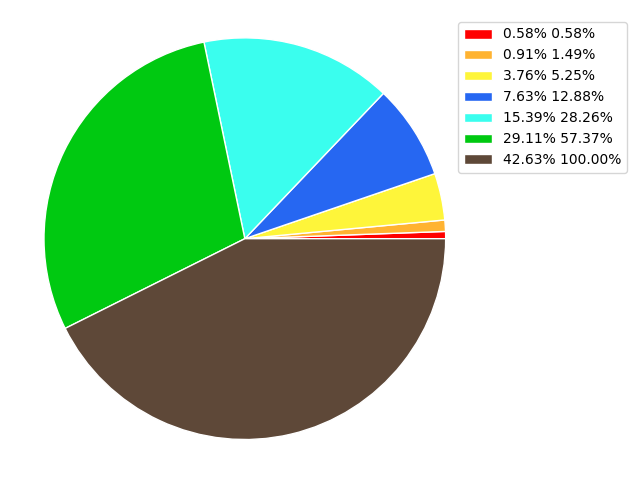
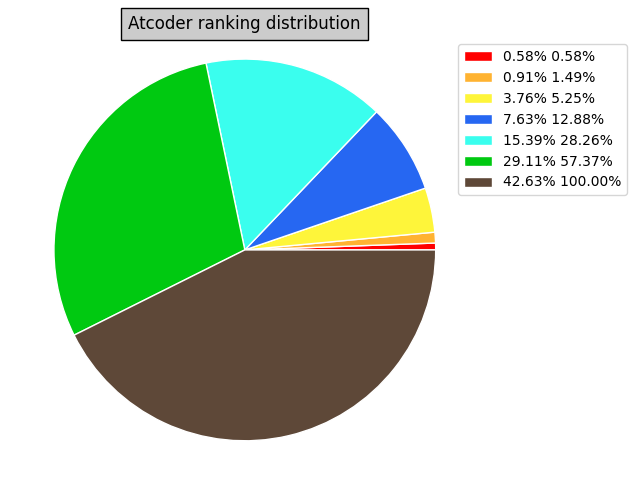
add titles

diff --git a/atcoderpiechart.py b/atcoderpiechart.py
@@ -22,6 +22,7 @@ for i in range(1,len(sizes)):
 labels = [f'{l}, {s/total*100:0.2f}%' for l, s in zip(labels, sizes)]
 labels = [f'{s/total*100:0.2f}% {c/total*100:0.2f}%' for s, c in zip(sizes, cumulative)]
 plt.legend(bbox_to_anchor=(0.95, 1), loc='upper left', labels=labels)
+plt.title('Atcoder ranking distribution', bbox={'facecolor':'0.8', 'pad':5})
 plt.axis('equal')
 plt.tight_layout()
 

diff --git a/codeforcespiechart.py b/codeforcespiechart.py
@@ -16,6 +16,7 @@ for i in range(1,len(sizes)):
 labels = [f'{s/total*100:0.2f}% {c/total*100:0.2f}%' for s, c in zip(sizes, cumulative)]
 print(sizes,cumulative)
 plt.legend(bbox_to_anchor=(0.95, 1), loc='upper left', labels=labels)
+plt.title('Codeforces ranking distribution', bbox={'facecolor':'0.8', 'pad':5})
 plt.axis('equal')
 plt.tight_layout()
 
